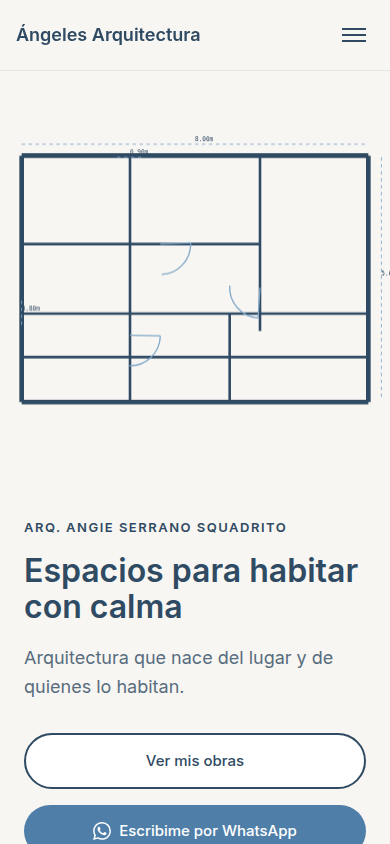
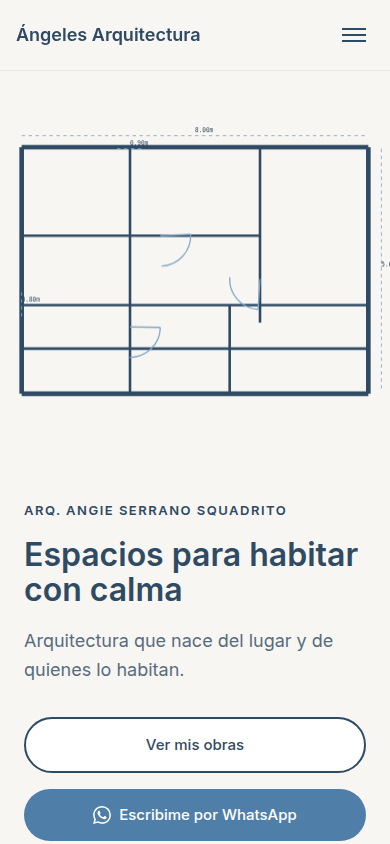
Fix mobile layout: art in normal flow above text, proper stacking
Heroes 1,2,3,5:
- Art wrapper position:static (not absolute) at 42vh
- Placed BEFORE text with order:-1
- Text block below with no overlap
- Drawing scales to fit within wrapper

Hero 6:
- Spiral canvas in own top block (like 1,2,3,5)
- position:static at 42vh on mobile
- Full opacity, text below

Hero 4:
- Increased opacity to 0.8 for stronger dots

Mobile tests updated:
- Check art box is above text (artBottom <= textTop)
- Verify no overlap between art and text
- Check non-background pixels in 3+ of 4 quadrants
- Save 390x844 screenshots for visual verification
- Opacity = 1 for all except hero 4

diff --git a/test-hero-mobile.spec.js b/test-hero-mobile.spec.js
@@ -3,12 +3,12 @@ const { test, expect } = require('@playwright/test');
 const BASE_URL = process.env.BASE_URL || 'http://localhost:8080/hero-demos';
 
 const heroes = [
-  { num: 1, name: 'Plano Generativo', hasBackdrop: false },
-  { num: 2, name: 'Volúmenes Isométricos', hasBackdrop: false },
-  { num: 3, name: 'Arcos de Luz', hasBackdrop: false },
-  { num: 4, name: 'Grid Interactivo', hasBackdrop: true },
-  { num: 5, name: 'Corte Arquitectónico', hasBackdrop: false },
-  { num: 6, name: 'Proporción Áurea', hasBackdrop: true }
+  { num: 1, name: 'Plano Generativo' },
+  { num: 2, name: 'Volúmenes Isométricos' },
+  { num: 3, name: 'Arcos de Luz' },
+  { num: 4, name: 'Grid Interactivo' },
+  { num: 5, name: 'Corte Arquitectónico' },
+  { num: 6, name: 'Proporción Áurea' }
 ];
 
 test.describe('Hero Demos - Mobile Tests', () => {
@@ -43,8 +43,8 @@ test.describe('Hero Demos - Mobile Tests', () => {
         const minHeight = viewport.height * 0.40;
         expect(artHeight).toBeGreaterThanOrEqual(minHeight);
         
-        // For heroes 1,2,3,5 check opacity is 1 (not backdrop heroes)
-        if (!hero.hasBackdrop) {
+        // For heroes 1,2,3,5,6 check opacity is 1 (not backdrop heroes 4)
+        if (hero.num !== 4) {
           const artOpacity = await page.evaluate(() => {
             const canvas = document.querySelector('canvas');
             const wrapper = canvas?.closest('.art-wrapper');
@@ -56,41 +56,68 @@ test.describe('Hero Demos - Mobile Tests', () => {
           expect(artOpacity).toBe(1);
         }
         
-        // Check for non-background pixels in art box (or verify canvas is rendering)
-        const hasContent = await page.evaluate(() => {
+        // Check art box is above text block and they don't overlap
+        const { artBottom, textTop } = await page.evaluate(() => {
           const canvas = document.querySelector('canvas');
-          if (!canvas) return false;
-          
-          // For very small viewports, just verify canvas has valid dimensions
-          if (canvas.width < 400 || canvas.height < 400) {
-            return canvas.width > 0 && canvas.height > 0;
-          }
+          const textBlock = document.querySelector('.hero-content');
+          const artBox = canvas.getBoundingClientRect();
+          const textBox = textBlock.getBoundingClientRect();
+          return {
+            artBottom: artBox.bottom,
+            textTop: textBox.top
+          };
+        });
+        
+        // Art should end before or at text start (no overlap)
+        expect(artBottom).toBeLessThanOrEqual(textTop + 1); // +1 for rounding
+        
+        // Check for non-background pixels in at least 3 of 4 quadrants
+        const quadrantsWithContent = await page.evaluate(() => {
+          const canvas = document.querySelector('canvas');
+          if (!canvas) return 0;
           
           const ctx = canvas.getContext('2d');
-          const imageData = ctx.getImageData(0, 0, canvas.width, canvas.height);
-          const pixels = imageData.data;
+          const w = canvas.width;
+          const h = canvas.height;
           
-          // Sample pixels to find non-transparent and non-pure-background
-          let nonBackgroundCount = 0;
-          const sampleRate = 100; // Check every 100th pixel
+          // Define quadrants
+          const quadrants = [
+            { x: 0, y: 0, w: w/2, h: h/2 },           // top-left
+            { x: w/2, y: 0, w: w/2, h: h/2 },         // top-right
+            { x: 0, y: h/2, w: w/2, h: h/2 },         // bottom-left
+            { x: w/2, y: h/2, w: w/2, h: h/2 }        // bottom-right
+          ];
           
-          for (let i = 0; i < pixels.length; i += 4 * sampleRate) {
-            const r = pixels[i];
-            const g = pixels[i + 1];
-            const b = pixels[i + 2];
-            const a = pixels[i + 3];
+          let quadrantsWithPixels = 0;
+          
+          for (const quad of quadrants) {
+            const imageData = ctx.getImageData(quad.x, quad.y, quad.w, quad.h);
+            const pixels = imageData.data;
             
-            // Check for non-transparent and not pure white/beige
-            if (a > 10 && !(r > 240 && g > 240 && b > 235)) {
-              nonBackgroundCount++;
-              if (nonBackgroundCount > 10) return true; // Found enough content
+            let nonBackgroundCount = 0;
+            const sampleRate = 200; // Sample every 200th pixel
+            
+            for (let i = 0; i < pixels.length; i += 4 * sampleRate) {
+              const r = pixels[i];
+              const g = pixels[i + 1];
+              const b = pixels[i + 2];
+              const a = pixels[i + 3];
+              
+              // Check for non-transparent and not pure white/beige
+              if (a > 10 && !(r > 240 && g > 240 && b > 235)) {
+                nonBackgroundCount++;
+                if (nonBackgroundCount > 5) {
+                  quadrantsWithPixels++;
+                  break; // Found content in this quadrant
+                }
+              }
             }
           }
           
-          return nonBackgroundCount > 10;
+          return quadrantsWithPixels;
         });
         
-        expect(hasContent).toBeTruthy();
+        expect(quadrantsWithContent).toBeGreaterThanOrEqual(3);
         
         // Check both CTAs are in viewport
         const ctaButtons = page.locator('.hero-buttons a');
@@ -118,6 +145,14 @@ test.describe('Hero Demos - Mobile Tests', () => {
           return canvas && canvas.width > 0 && canvas.height > 0;
         });
         expect(canvasStillValid).toBeTruthy();
+        
+        // Take screenshot at 390x844 for visual verification
+        if (viewport.width === 390 && viewport.height === 844) {
+          await page.screenshot({ 
+            path: `test-screenshots/hero-${hero.num}-mobile-390x844.png`,
+            fullPage: false
+          });
+        }
       });
     });
     

diff --git a/hero-demos/hero-1.html b/hero-demos/hero-1.html
@@ -10,13 +10,12 @@
 .hero{position:relative;min-height:100vh;display:flex;align-items:stretch;background:#F8F6F2;overflow:hidden}
 .art-wrapper{position:absolute;top:80px;right:0;width:60%;height:calc(100vh - 80px)}
 .blueprint-canvas{display:block;width:100%;height:100%}
-@media (max-width:768px){.art-wrapper{inset:80px 0 0 0;width:100%;height:calc(100vh - 80px);opacity:0.3;z-index:1}}
 .hero-content{position:relative;z-index:10;width:40%;max-width:600px;background:rgba(248,246,242,0.98);padding:60px 40px;display:flex;flex-direction:column;justify-content:center;backdrop-filter:blur(2px);margin-left:40px;align-self:center}
 .hero-content .hero-subtitle,.hero-content .hero-title,.hero-content .hero-tagline{color:#2F4A63}
 .hero-title .word{display:inline-block;white-space:nowrap}
 @media (prefers-reduced-motion:reduce){.blueprint-canvas{display:none}}
 .demo-note{position:fixed;bottom:20px;top:auto;left:20px;background:white;padding:12px 20px;border-radius:8px;box-shadow:0 4px 12px rgba(0,0,0,0.1);font-size:14px;color:#2F4A63;z-index:2000}
-@media (max-width:768px){.demo-note{display:none}.hero{flex-direction:column;min-height:auto}.art-wrapper{position:relative;top:0;right:0;width:100%;height:45vh;opacity:1;z-index:1;order:-1}.hero-content{position:relative;width:100%;max-width:none;padding:40px 24px;margin:0;background:#F8F6F2;z-index:2;order:1}}
+@media (max-width:768px){.demo-note{display:none}.hero{flex-direction:column;min-height:auto}.art-wrapper{position:static;width:100%;height:42vh;opacity:1;order:-1}.hero-content{position:relative;width:100%;max-width:none;padding:32px 24px;margin:0;background:#F8F6F2;order:1}}
 </style>
 </head>
 <body>

diff --git a/hero-demos/hero-3.html b/hero-demos/hero-3.html
@@ -15,7 +15,7 @@
 .hero-title .word{display:inline-block;white-space:nowrap}
 @media (prefers-reduced-motion:reduce){.colonnade-canvas{display:none}}
 .demo-note{position:fixed;bottom:20px;top:auto;left:20px;background:white;padding:12px 20px;border-radius:8px;box-shadow:0 4px 12px rgba(0,0,0,0.1);font-size:14px;color:#2F4A63;z-index:2000}
-@media (max-width:768px){.demo-note{display:none}.hero{flex-direction:column;min-height:auto}.art-wrapper{position:relative;top:0;right:0;width:100%;height:45vh;opacity:1;z-index:1;order:-1}.hero-content{position:relative;width:100%;max-width:none;padding:40px 24px;margin:0;background:#F8F6F2;z-index:2;order:1}}
+@media (max-width:768px){.demo-note{display:none}.hero{flex-direction:column;min-height:auto}.art-wrapper{position:static;width:100%;height:42vh;opacity:1;order:-1}.hero-content{position:relative;width:100%;max-width:none;padding:32px 24px;margin:0;background:#F8F6F2;order:1}}
 </style>
 </head>
 <body>

diff --git a/hero-demos/hero-5.html b/hero-demos/hero-5.html
@@ -15,7 +15,7 @@
 .hero-title .word{display:inline-block;white-space:nowrap}
 @media (prefers-reduced-motion:reduce){.section-canvas{display:none}}
 .demo-note{position:fixed;bottom:20px;top:auto;left:20px;background:white;padding:12px 20px;border-radius:8px;box-shadow:0 4px 12px rgba(0,0,0,0.1);font-size:14px;color:#2F4A63;z-index:2000}
-@media (max-width:768px){.demo-note{display:none}.hero{flex-direction:column;min-height:auto}.art-wrapper{position:relative;top:0;right:0;width:100%;height:45vh;opacity:1;z-index:1;order:-1}.hero-content{position:relative;width:100%;max-width:none;padding:40px 24px;margin:0;background:#F8F6F2;z-index:2;order:1}}
+@media (max-width:768px){.demo-note{display:none}.hero{flex-direction:column;min-height:auto}.art-wrapper{position:static;width:100%;height:42vh;opacity:1;order:-1}.hero-content{position:relative;width:100%;max-width:none;padding:32px 24px;margin:0;background:#F8F6F2;order:1}}
 </style>
 </head>
 <body>

diff --git a/hero-demos/hero-2.html b/hero-demos/hero-2.html
@@ -15,7 +15,7 @@
 .hero-title .word{display:inline-block;white-space:nowrap}
 @media (prefers-reduced-motion:reduce){.iso-canvas{display:none}}
 .demo-note{position:fixed;bottom:20px;top:auto;left:20px;background:white;padding:12px 20px;border-radius:8px;box-shadow:0 4px 12px rgba(0,0,0,0.1);font-size:14px;color:#2F4A63;z-index:2000}
-@media (max-width:768px){.demo-note{display:none}.hero{flex-direction:column;min-height:auto}.art-wrapper{position:relative;top:0;right:0;width:100%;height:45vh;opacity:1;z-index:1;order:-1}.hero-content{position:relative;width:100%;max-width:none;padding:40px 24px;margin:0;background:#F8F6F2;z-index:2;order:1}}
+@media (max-width:768px){.demo-note{display:none}.hero{flex-direction:column;min-height:auto}.art-wrapper{position:static;width:100%;height:42vh;opacity:1;order:-1}.hero-content{position:relative;width:100%;max-width:none;padding:32px 24px;margin:0;background:#F8F6F2;order:1}}
 </style>
 </head>
 <body>

diff --git a/hero-demos/hero-6.html b/hero-demos/hero-6.html
@@ -14,7 +14,13 @@
 .hero-title .word{display:inline-block;white-space:nowrap}
 @media (prefers-reduced-motion:reduce){.golden-canvas{display:none}}
 .demo-note{position:fixed;bottom:20px;top:auto;left:20px;background:white;padding:12px 20px;border-radius:8px;box-shadow:0 4px 12px rgba(0,0,0,0.1);font-size:14px;color:#2F4A63;z-index:2000}
-@media (max-width:768px){.demo-note{display:none}.golden-canvas{opacity:0.6}.hero-content{padding:24px;background:rgba(248,246,242,0.98);backdrop-filter:blur(15px)}}
+@media (max-width:768px){
+  .demo-note{display:none}
+  .hero{flex-direction:column;min-height:auto;align-items:stretch}
+  .golden-canvas{position:static;width:100%;height:42vh;opacity:1;order:-1}
+  .container{order:1;width:100%;max-width:none;padding:0}
+  .hero-content{padding:32px 24px;margin:0;background:#F8F6F2;backdrop-filter:none;border-radius:0;max-width:none}
+}
 </style>
 </head>
 <body>

diff --git a/hero-demos/hero-4.html b/hero-demos/hero-4.html
@@ -14,7 +14,7 @@
 .hero-title .word{display:inline-block;white-space:nowrap}
 @media (prefers-reduced-motion:reduce){.field-canvas{display:none}}
 .demo-note{position:fixed;bottom:20px;top:auto;left:20px;background:white;padding:12px 20px;border-radius:8px;box-shadow:0 4px 12px rgba(0,0,0,0.1);font-size:14px;color:#2F4A63;z-index:2000}
-@media (max-width:768px){.demo-note{display:none}.field-canvas{opacity:0.6}.hero-content{padding:24px;background:rgba(248,246,242,0.98);backdrop-filter:blur(15px)}}
+@media (max-width:768px){.demo-note{display:none}.field-canvas{opacity:0.8}.hero-content{padding:24px;background:rgba(248,246,242,0.98);backdrop-filter:blur(15px)}}
 </style>
 </head>
 <body>
